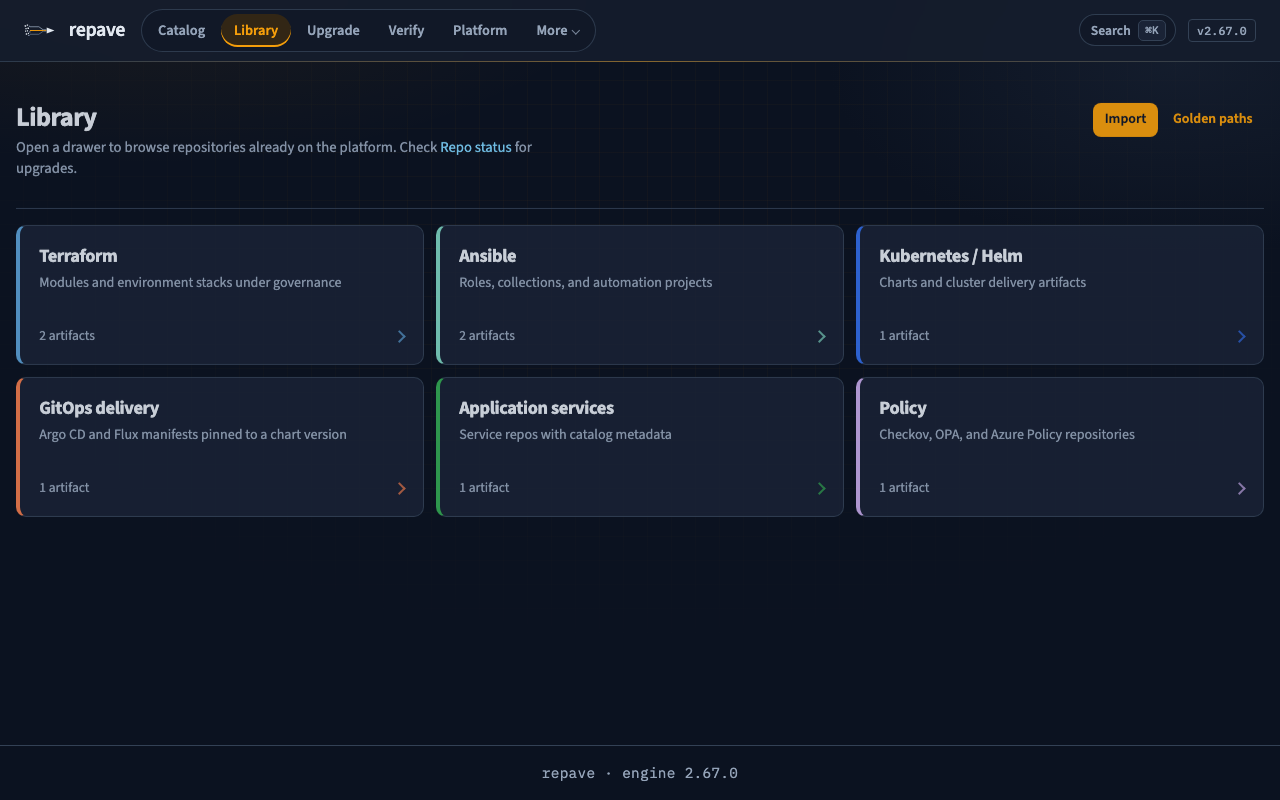
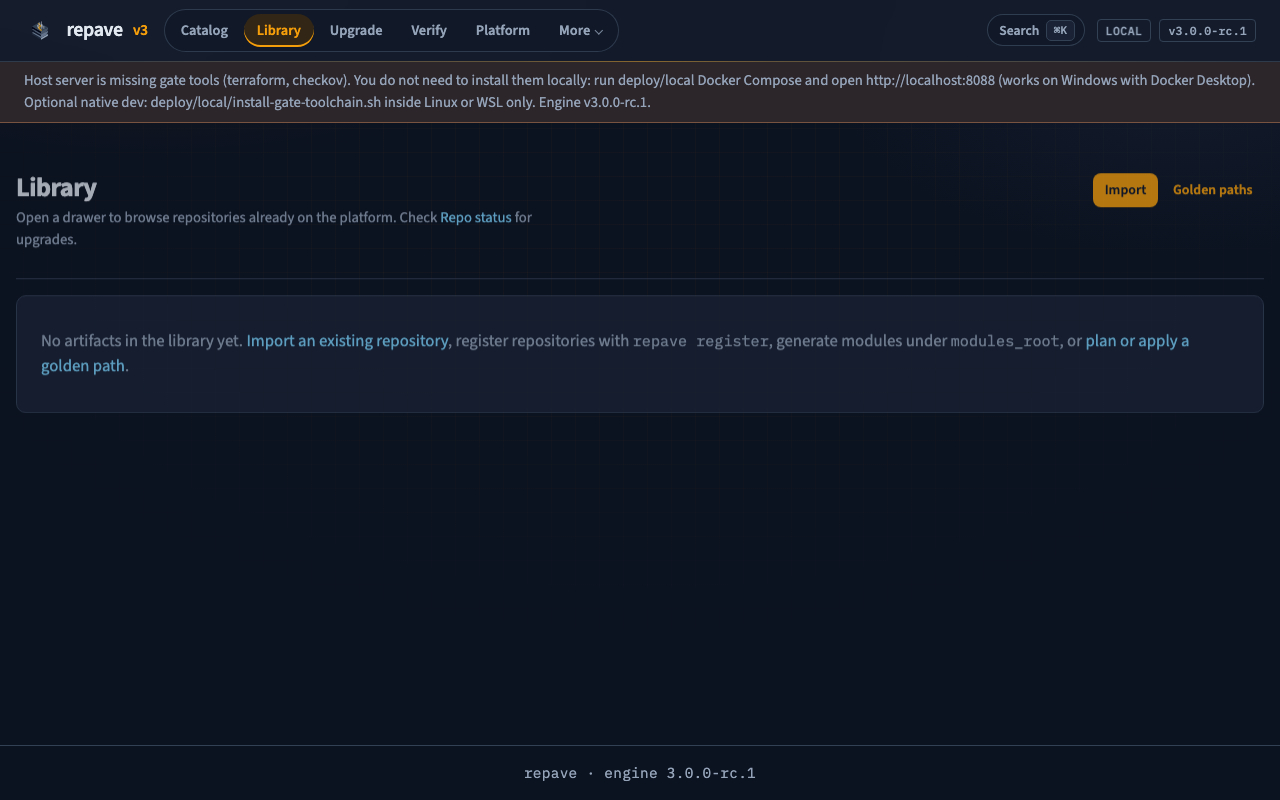
docs(portal): recapture README screenshots against the v3 shell
Refresh catalog, library, form, import, upgrade, and generate shots so
the README matches the platform-layer mark and amber v3 lockup.

diff --git a/docs/portal-design.md b/docs/portal-design.md
@@ -305,13 +305,13 @@ Further craft (illustration, stepper) is optional.
 ### Visual v3 (next/v3)
 
 **Status:** identity landed in [ADR 009](adr/009-v3-product-identity.md): **repave** +
-platform-layer mark + *The intelligent platform layer*. Recapture README screenshots
-once against this shell. Do not recapture v2 chrome.
+platform-layer mark + *The intelligent platform layer*. README screenshots recaptured
+against this shell. Do not recapture v2 chrome.
 
 - Display name stays **repave**; wire names stay `repave`; amber **v3** in the lockup
 - Night-ops shell tokens (same five-color palette); semantic status colors unchanged
 - Family drawer accents stay independent of brand gold
-- One screenshot pass against the v3 shell
+- README screenshot pass against the v3 shell is done
 - Asset checklist: [`docs/brand/v3.md`](brand/v3.md)
 
 Primary nav is a compact pill group: Catalog / Library / Upgrade / Verify, with

diff --git a/docs/brand/v3.md b/docs/brand/v3.md
@@ -39,6 +39,6 @@ stay independent of brand gold.
 2. Regenerate PNG, favicon, and social exports (`rsvg-convert`).
 3. Copy into `engine/src/repave_engine/static/brand/` for the portal.
 4. Portal default mark is `repave-mark-dark.svg` (night-ops shell).
-5. Recapture README screenshots **once** against the v3 shell.
+5. README screenshots recaptured against the v3 shell.
 
 Do not use brand accent for success / warning / error.
